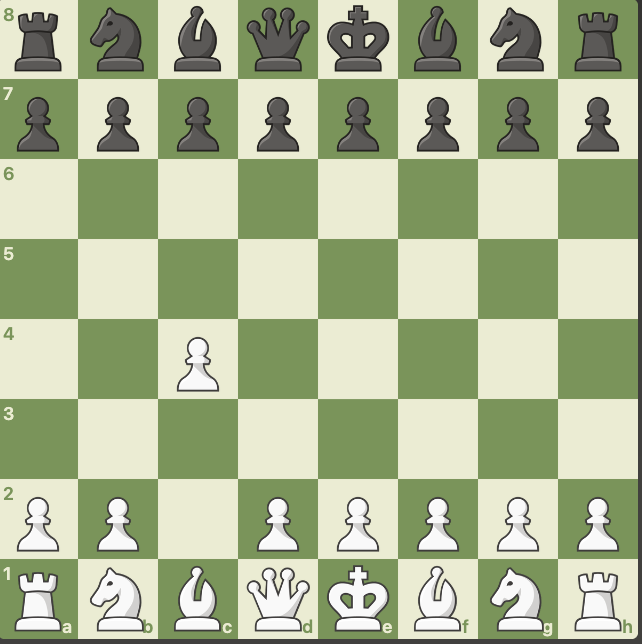
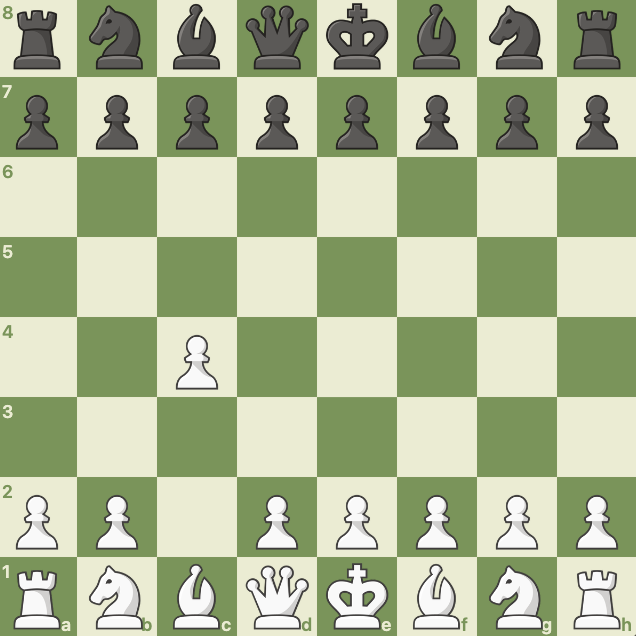
Added basic styling for card

diff --git a/week-3/card/card.html b/week-3/card/card.html
@@ -3,19 +3,30 @@
   <head>
     <meta charset="UTF-8" />
     <meta name="viewport" content="width=device-width, initial-scale=1.0" />
+    <link rel="preconnect" href="https://fonts.googleapis.com" />
+    <link rel="preconnect" href="https://fonts.gstatic.com" crossorigin />
+    <link
+      href="https://fonts.googleapis.com/css2?family=Manrope:wght@200..800&family=Space+Mono:ital,wght@0,400;0,700;1,400;1,700&display=swap"
+      rel="stylesheet"
+    />
     <link rel="stylesheet" href="./style.css" />
     <title>Card Assignment</title>
   </head>
   <body>
     <div id="card">
+      <figure>
+        <img src="./assets/english-opening.png" alt="" />
+        <figcaption>Image: Chess.com</figcaption>
+      </figure>
+
       <h1>English Opening</h1>
       <p>
         One of my favorite chess openings in the English Opening. Instead of
         pushing a center pawn, such as e4 or d4, White pushes a flank pawn (c4)
         to indirectly control the center of the board. My main goal when playing
         the English is to place my light-square bishop onto the g2 square to
-        control the long a8-h1 diagonal and ultimately applying pressure to
-        Black's h1 rook.
+        control the long a8-h1 diagonal and ultimately apply pressure to Black's
+        h1 rook.
       </p>
       <button>
         <a href="https://www.chess.com/openings/English-Opening">Read More</a>

diff --git a/week-3/card/style.css b/week-3/card/style.css
@@ -1,0 +1,59 @@
+* {
+    --bg-color:#5A5957;
+    --div-color:#464643; 
+    --shadow-color: #32322F; 
+    --heading-color:#7A945A;
+    --p-color:  #EBECD3;
+    --button-color: #D1D0CF;
+    font-family: "Space Mono", monospace;
+    font-weight: 400;
+    font-style: normal;
+}
+
+
+body {
+    background-color: var(--bg-color);
+}
+
+#card {
+    background-color: var(--div-color);
+    width: 500px; 
+    height: 750px;
+    padding: 36px;
+    border-radius: 12px;
+    box-shadow: 5px 10px var(--shadow-color);
+}
+
+h1 {
+    color: var(--heading-color); 
+    font-family: "Manrope", sans-serif;
+    font-optical-sizing: auto;
+    font-style: normal; 
+}
+
+img {
+    object-fit: 100%;
+    height: 300px;
+    margin-bottom: 12px;
+    
+}
+
+p {
+    color: var(--p-color); 
+}
+
+button {
+    background-color: var(--button-color); 
+}
+
+a{
+    text-decoration: none;
+    color: var(--div-color);
+}
+
+button:hover {
+    background-color: var(--heading-color);
+    color: var(--p-color);
+}
+
+
